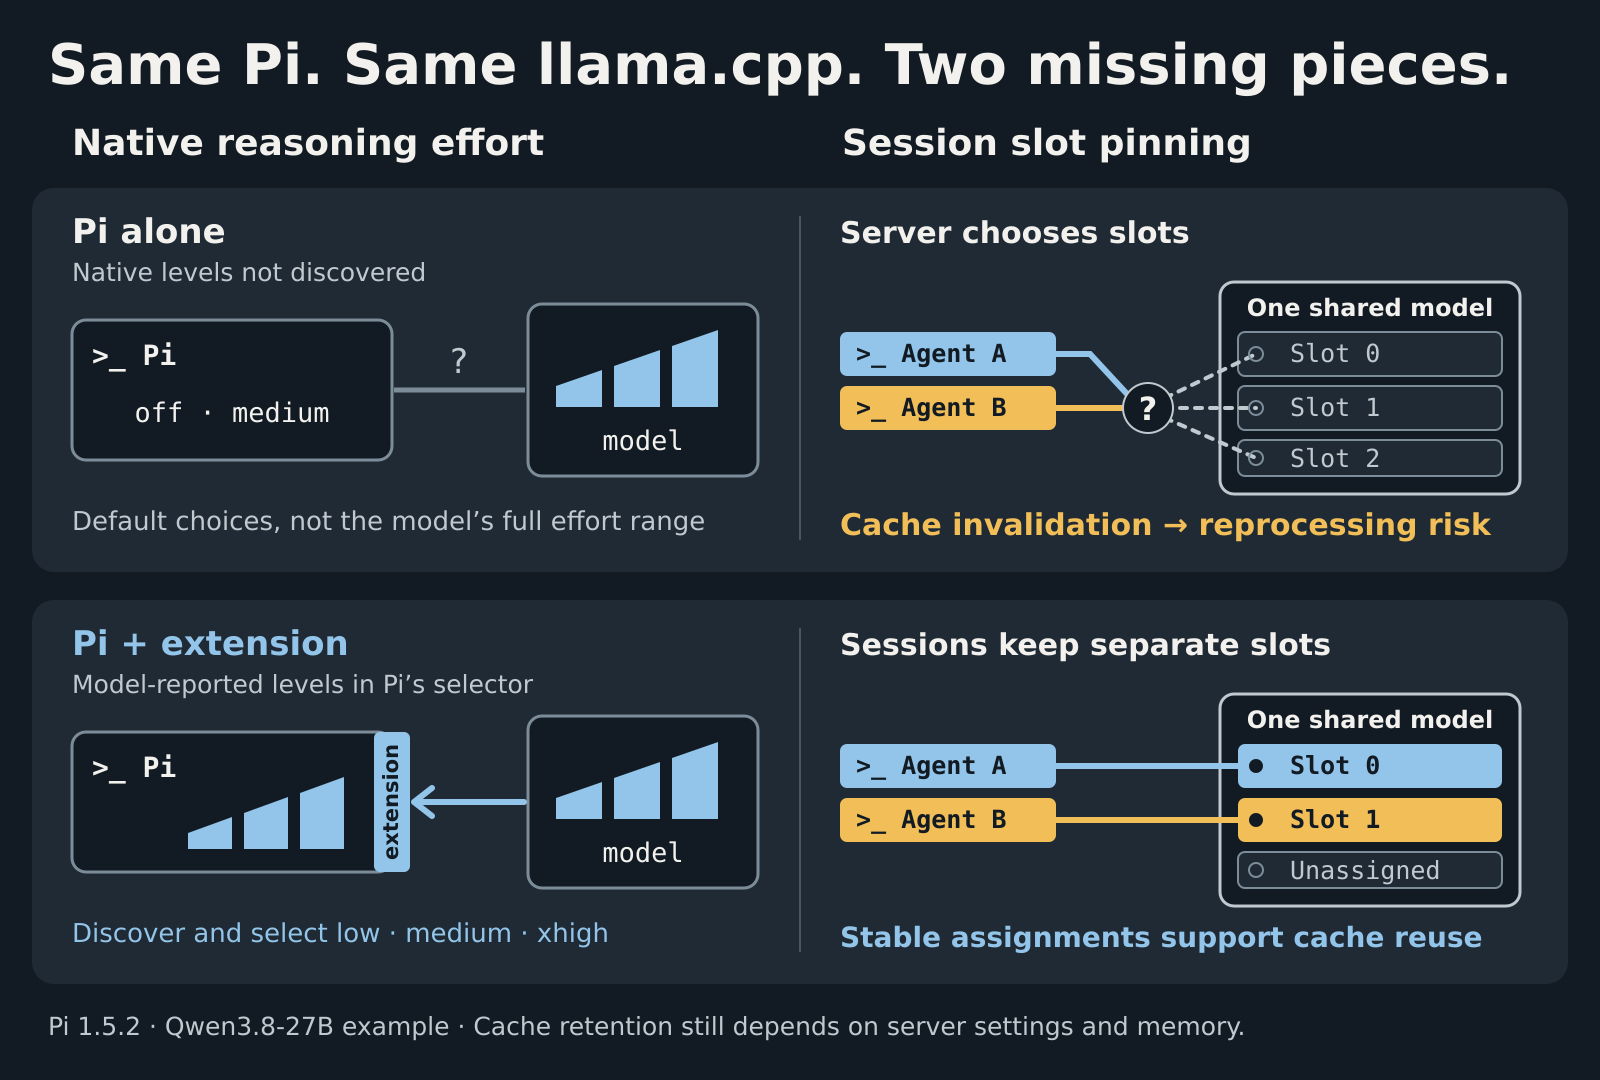
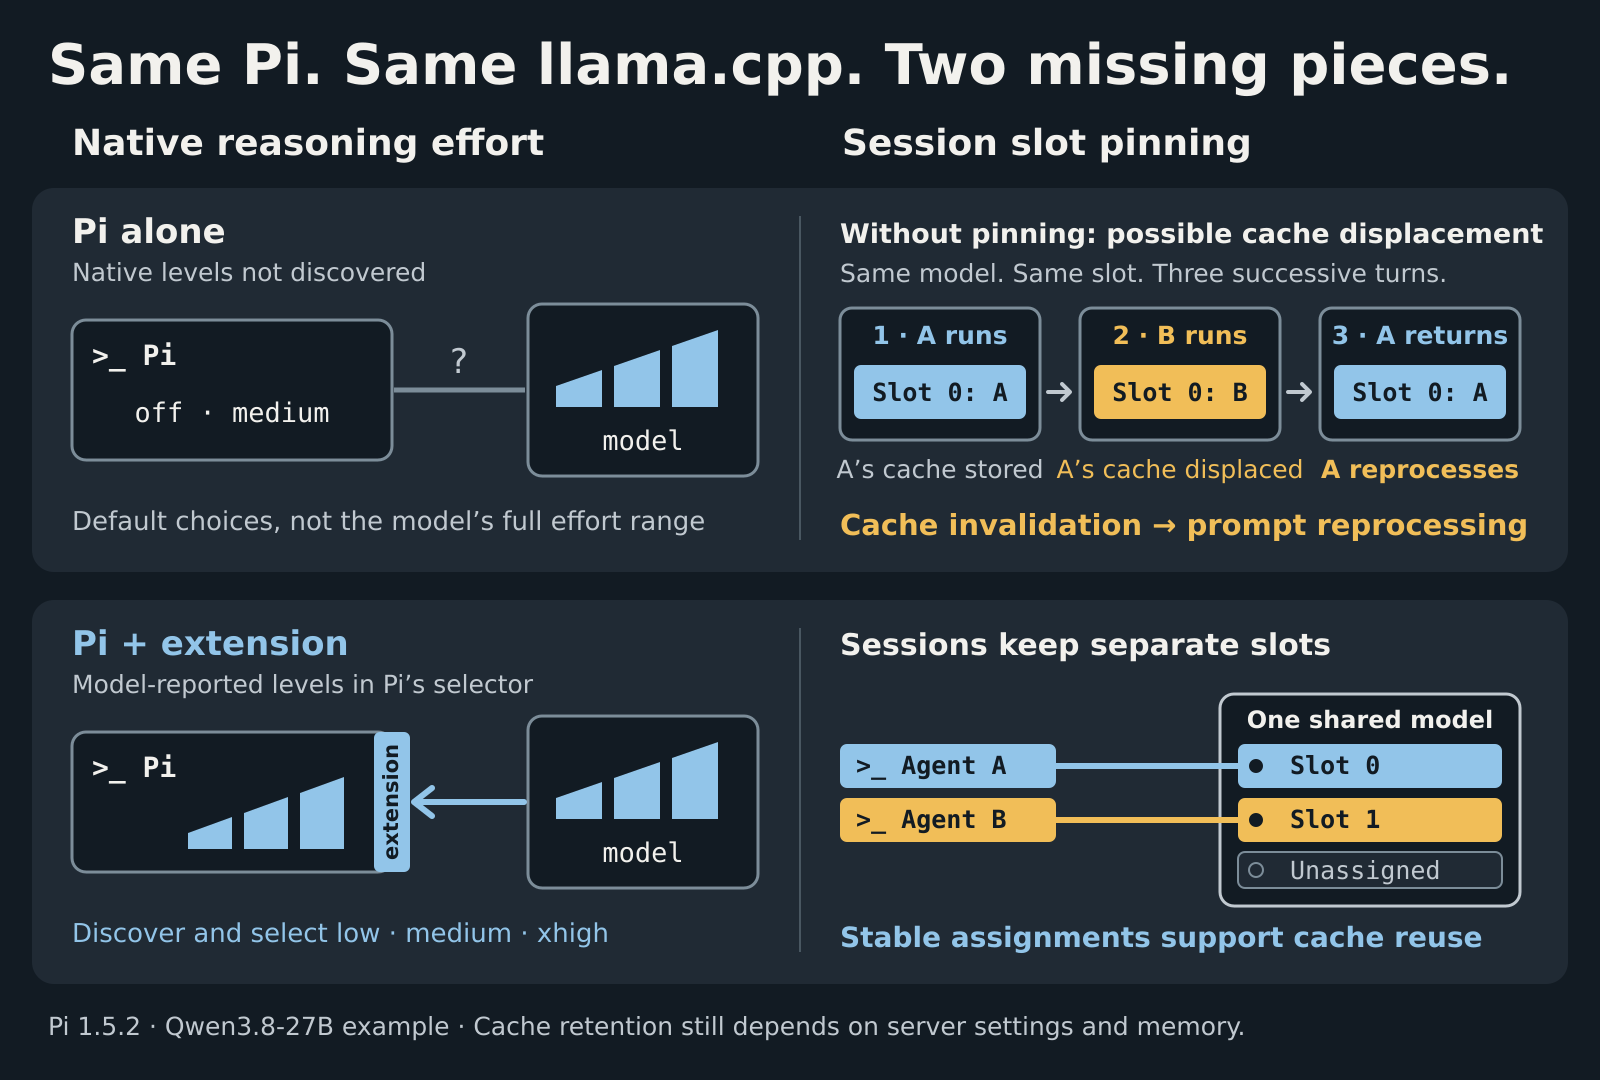
docs: show cache displacement across unpinned session turns

Changed region(s): [[0.5, 0.1833, 0.9688, 0.5194]]

diff --git a/README.md b/README.md
@@ -9,7 +9,7 @@
 
 Extends [Pi](https://pi.dev)’s built-in llama.cpp integration with native reasoning-effort selection and automatic session slot pinning.
 
-![Pi 1.5.2 alone versus Pi with this extension: default thinking choices become model-reported native effort levels; server-selected slots become stable, colour-matched session assignments. Unpinned sessions risk cache invalidation and prompt reprocessing. Pinning supports cache reuse but does not guarantee retention.](https://raw.githubusercontent.com/Ryu-CZ/pi-llama-reasoning/main/media/readme-preview.png)
+![Pi 1.5.2 alone versus Pi with this extension: default thinking choices become model-reported native effort levels; server-selected slots become stable, colour-matched session assignments. An illustrative A–B–A sequence reuses the same slot, displacing A’s cached context and forcing A to reprocess its prompt. Pinning supports cache reuse but does not guarantee retention.](https://raw.githubusercontent.com/Ryu-CZ/pi-llama-reasoning/main/media/readme-preview.png)
 
 ## Why use it?
 
